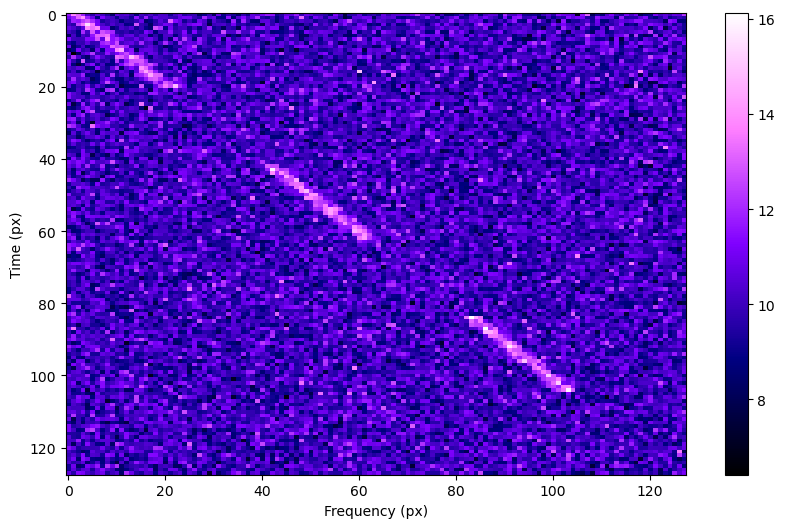
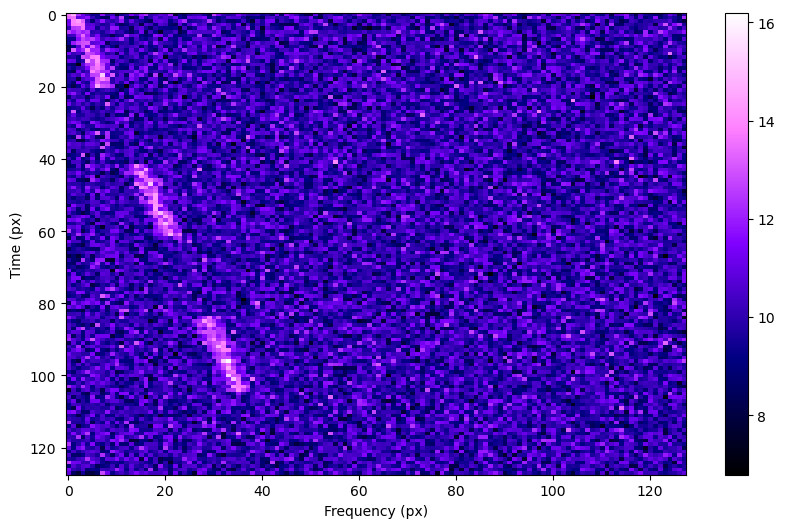
Plot works

diff --git a/setigen_multiplot.py b/setigen_multiplot.py
@@ -8,12 +8,15 @@
 #----------------------------------------------------------
 
 # Start by importing
+from code import interact
+from tracemalloc import start
 import matplotlib
 import setigen as stg
 import numpy as np
 import matplotlib.pyplot as plt
 from astropy import units as u
 import h5py
+import ipdb
 
 # Grabbing my custom colormap
 cmap_array = np.loadtxt('dusk_cm.txt')
@@ -24,7 +27,7 @@ matplotlib.use( 'tkagg' )
 
 
 # Create a function to produce synthetic waterfalls
-def create_synth_waterfall(drift_rate = 0.15, ran_snr = False, default_snr = 40, f_pix = 128, t_pix = 128, start_pix = 1):
+def create_synth_waterfall(drift_rate = 0.15, start_pix = 1, ran_snr = False, default_snr = 40, f_pix = 128, t_pix = 128):
 
     # Check if snr is supposed to be random
     if ran_snr == True:
@@ -65,3 +68,49 @@ def create_synth_waterfall(drift_rate = 0.15, ran_snr = False, default_snr = 40,
     # Returning signal_data
     return signal_data
 
+# Create list of variables to iterate over
+slopes = [0.3, 0.15, 0.1, -0.1, -0.15, -0.3]
+intercepts = [0, 0, 0, 128, 128, 128]
+
+# Empty list
+plot_data = []
+
+# Looping over columns
+for i in range(6):
+
+    # Determining the slope and intercept
+    slope = slopes[i]
+    intercept = intercepts[i]
+
+    # Empty list for column data
+    column_data = []
+    
+    # Looping over rows, applying a random intensity
+    for k in range(6):
+        # Plotting and appending
+        matrix_data = create_synth_waterfall(drift_rate=slope, start_pix=intercept, ran_snr=True)
+        plot_data.append(matrix_data)
+
+    #plot_data.append(column_data)
+
+fig = plt.figure(figsize=(12,12))
+
+ax = [fig.add_subplot(6,6,i+1) for i in range(36)]
+
+for axes in ax:
+    axes.set_xticklabels([])
+    axes.set_yticklabels([])
+    axes.set_aspect('equal')
+
+for k in range(36):
+
+    plt.sca(ax[k])
+    plt.imshow(plot_data[k], aspect='auto', interpolation='none', cmap=cmap)
+
+fig.subplots_adjust(wspace=0, hspace=0)
+#plt.colorbar()
+plt.show()
+
+print(len(plot_data))
+print(len(plot_data[0]))
+print(len(plot_data[4]))
